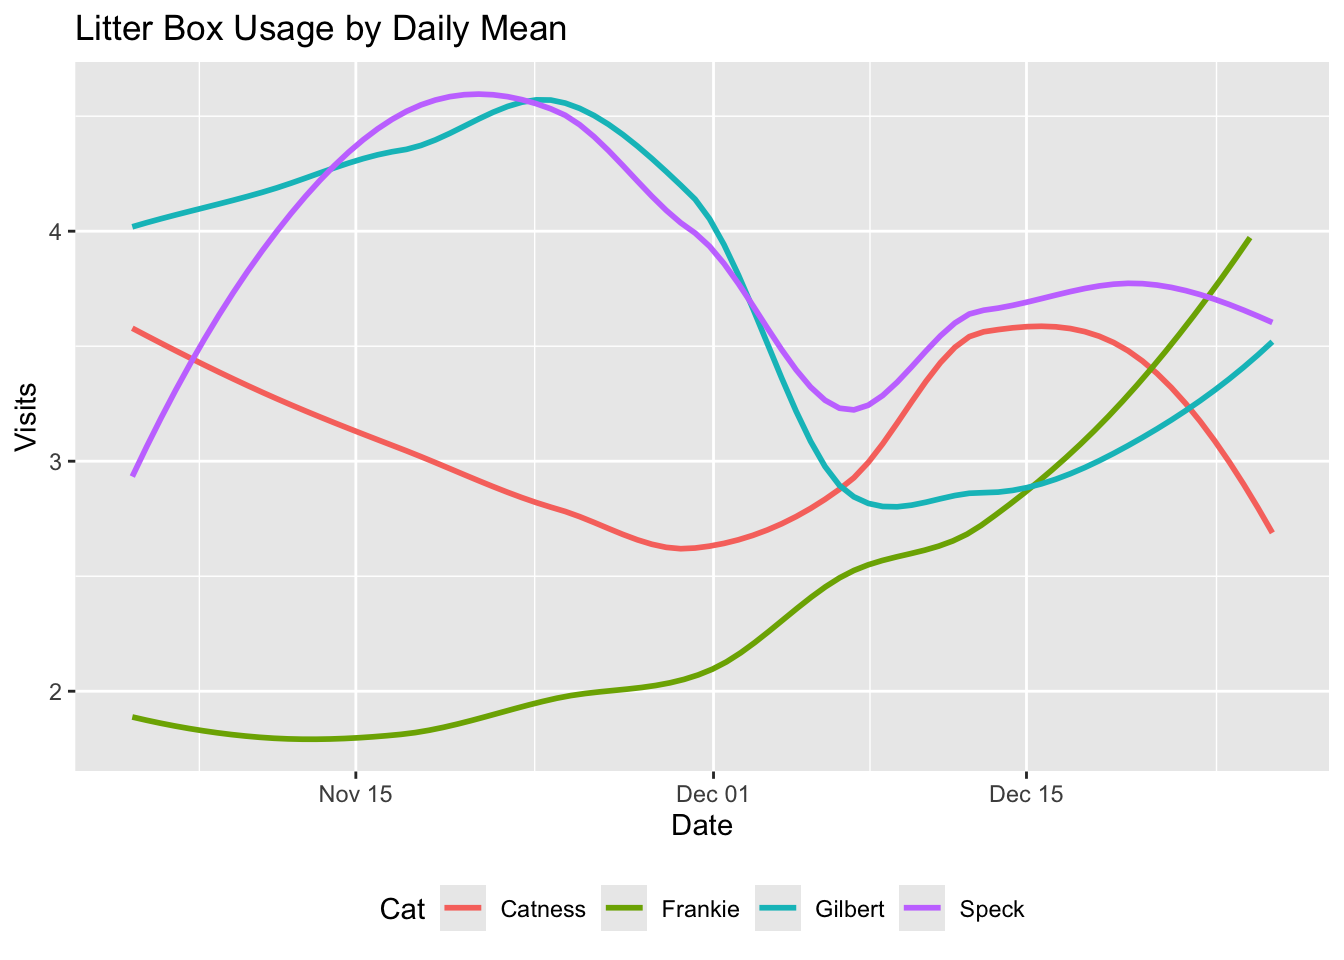
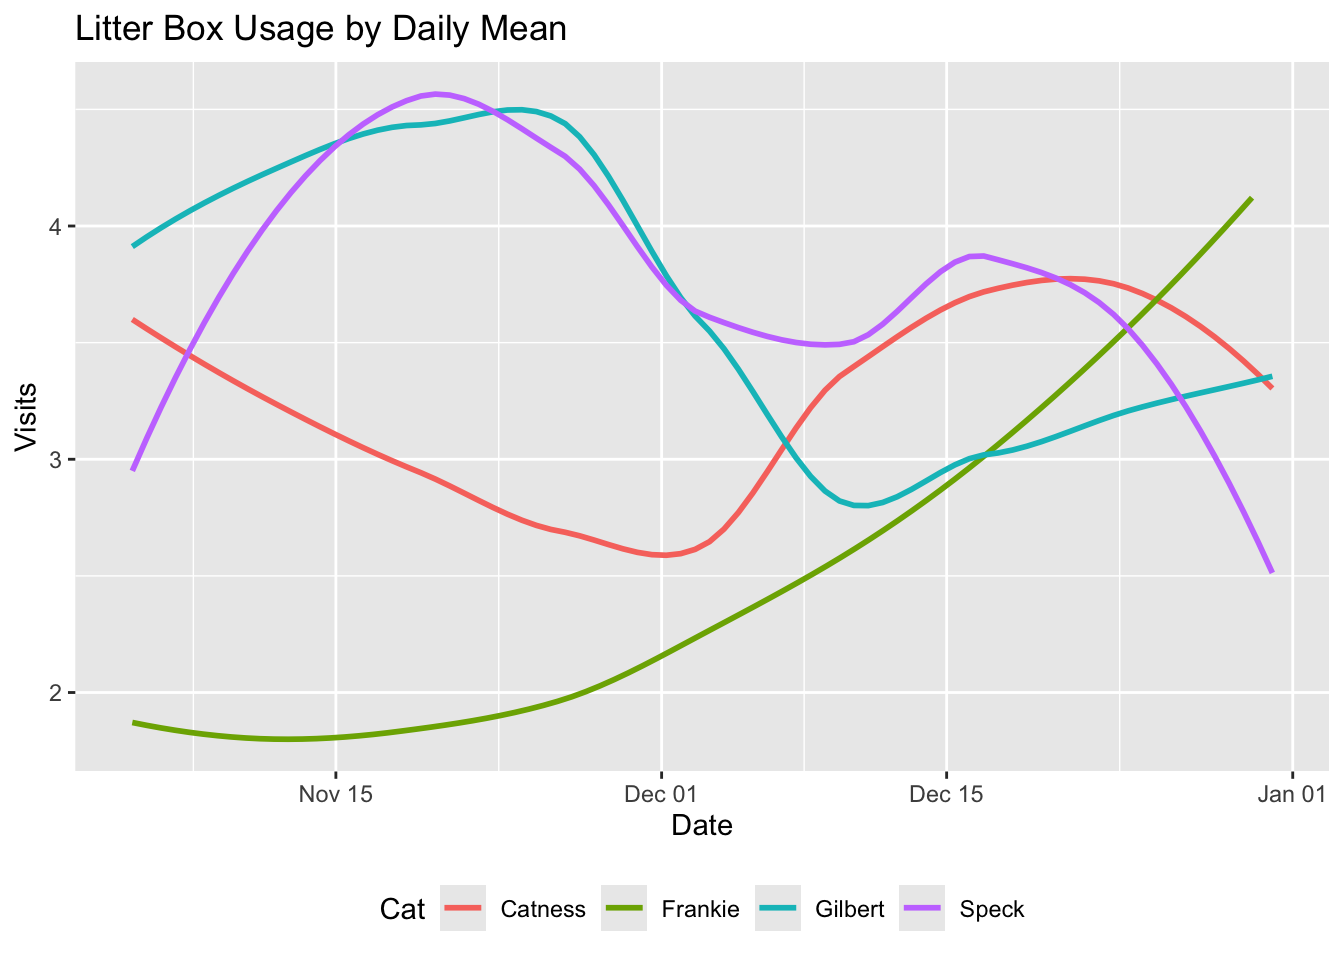
updated to dec 31 2024

diff --git a/index.html b/index.html
@@ -227,9 +227,9 @@ Figure&nbsp;1
 <td style="text-align: right;">10.9</td>
 <td style="text-align: right;">10.2</td>
 <td style="text-align: right;">10.1</td>
-<td style="text-align: right;">0.31</td>
-<td style="text-align: right;">0.83</td>
-<td style="text-align: right;">2.88</td>
+<td style="text-align: right;">0.30</td>
+<td style="text-align: right;">0.76</td>
+<td style="text-align: right;">2.95</td>
 </tr>
 <tr class="even">
 <td style="text-align: left;">Frankie</td>
@@ -237,29 +237,29 @@ Figure&nbsp;1
 <td style="text-align: right;">12.1</td>
 <td style="text-align: right;">11.6</td>
 <td style="text-align: right;">11.6</td>
-<td style="text-align: right;">0.29</td>
-<td style="text-align: right;">-0.14</td>
-<td style="text-align: right;">2.44</td>
+<td style="text-align: right;">0.31</td>
+<td style="text-align: right;">-0.11</td>
+<td style="text-align: right;">2.21</td>
 </tr>
 <tr class="odd">
 <td style="text-align: left;">Gilbert</td>
 <td style="text-align: right;">12.2</td>
 <td style="text-align: right;">13.0</td>
 <td style="text-align: right;">12.5</td>
-<td style="text-align: right;">12.5</td>
+<td style="text-align: right;">12.4</td>
 <td style="text-align: right;">0.19</td>
 <td style="text-align: right;">0.65</td>
-<td style="text-align: right;">3.04</td>
+<td style="text-align: right;">3.05</td>
 </tr>
 <tr class="even">
 <td style="text-align: left;">Speck</td>
 <td style="text-align: right;">7.7</td>
 <td style="text-align: right;">8.9</td>
-<td style="text-align: right;">8.2</td>
+<td style="text-align: right;">8.1</td>
 <td style="text-align: right;">8.1</td>
 <td style="text-align: right;">0.24</td>
-<td style="text-align: right;">0.69</td>
-<td style="text-align: right;">3.78</td>
+<td style="text-align: right;">0.74</td>
+<td style="text-align: right;">3.85</td>
 </tr>
 </tbody>
 </table>
@@ -280,23 +280,23 @@ Figure&nbsp;1
 <tbody>
 <tr class="odd">
 <td style="text-align: left;">Catness</td>
-<td style="text-align: right;">164</td>
-<td style="text-align: right;">23.4</td>
+<td style="text-align: right;">185</td>
+<td style="text-align: right;">23.1</td>
 </tr>
 <tr class="even">
 <td style="text-align: left;">Frankie</td>
-<td style="text-align: right;">116</td>
-<td style="text-align: right;">16.6</td>
+<td style="text-align: right;">135</td>
+<td style="text-align: right;">16.9</td>
 </tr>
 <tr class="odd">
 <td style="text-align: left;">Gilbert</td>
-<td style="text-align: right;">193</td>
-<td style="text-align: right;">27.6</td>
+<td style="text-align: right;">210</td>
+<td style="text-align: right;">26.2</td>
 </tr>
 <tr class="even">
 <td style="text-align: left;">Speck</td>
-<td style="text-align: right;">204</td>
-<td style="text-align: right;">29.1</td>
+<td style="text-align: right;">219</td>
+<td style="text-align: right;">27.4</td>
 </tr>
 </tbody>
 </table>

diff --git a/cleaner.py b/cleaner.py
@@ -3,7 +3,7 @@ import pandas as pd
 class CatDataCleaner:
     def __init__(self, input_files=None, output_file="cat_weights.csv", year='2024'):
         if input_files is None:
-            self.input_files = ["litter_robot_1.csv", "litter_robot_2.csv"]
+            self.input_files = ["litter_robot_1.csv", "litter_robot_2.csv", "litter_robot_3.csv"]
         else:
             self.input_files = input_files
         self.output_file = output_file
